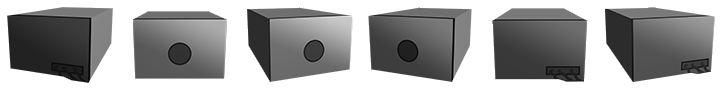
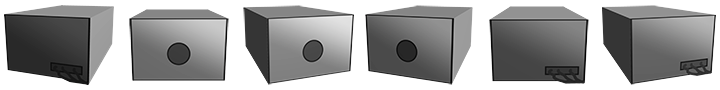
Further improved sprites

diff --git a/src/scenes/LoadingScene.js b/src/scenes/LoadingScene.js
@@ -79,7 +79,7 @@ export default class LoadingScene extends Phaser.Scene {
         this.load.image('image-background-character', backgroundCharacterImage);
         this.load.spritesheet('sprite-enemy', enemyImage, { frameWidth: 100, frameHeight: 100 });
         this.load.spritesheet('sprite-weapon-slot', weaponSlotButton, { frameWidth: 64, frameHeight: 64 });
-        this.load.spritesheet('sprite-speaker', speakerImage, { frameWidth: 100, frameHeight: 100 });
+        this.load.spritesheet('sprite-speaker', speakerImage, { frameWidth: 100, frameHeight: 110 });
         this.load.spritesheet('sprite-smoke', smokeWeaponImage, { frameWidth: 120, frameHeight: 90 });
         this.load.spritesheet('sprite-stage-light', lightWeaponImage, { frameWidth: 80, frameHeight: 110 });
         
